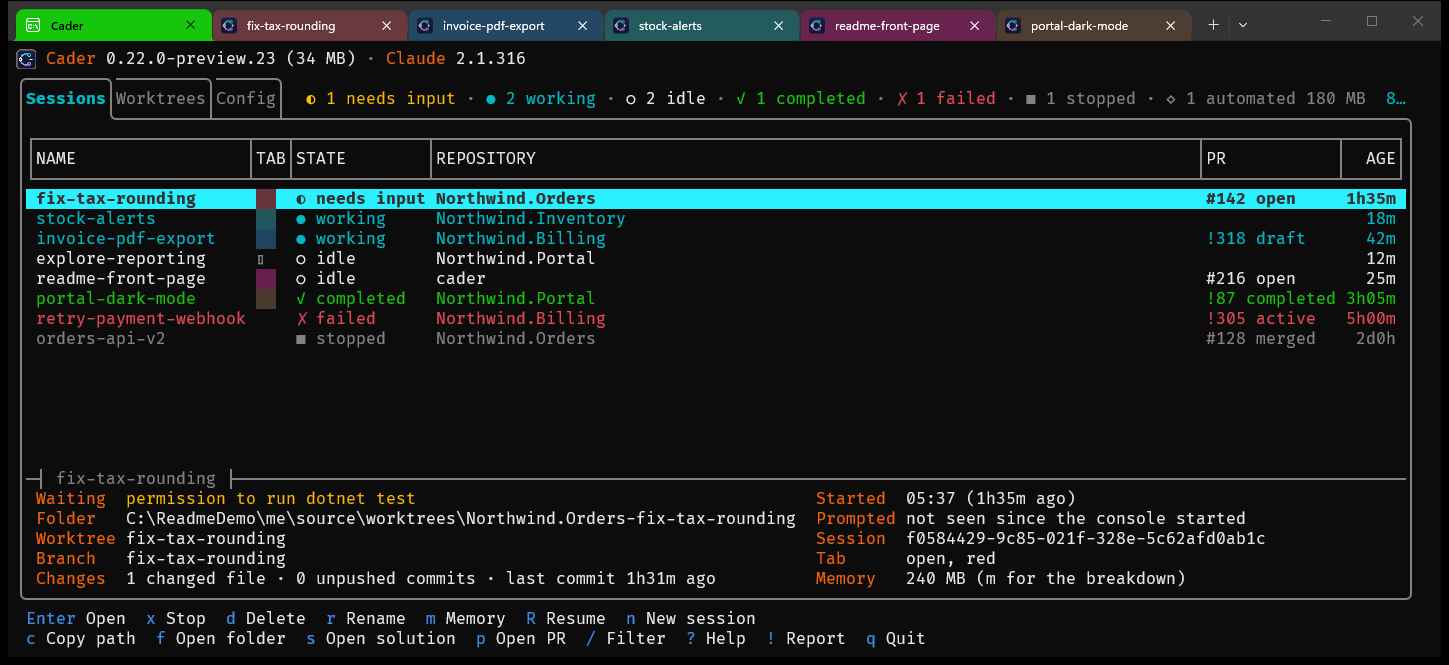
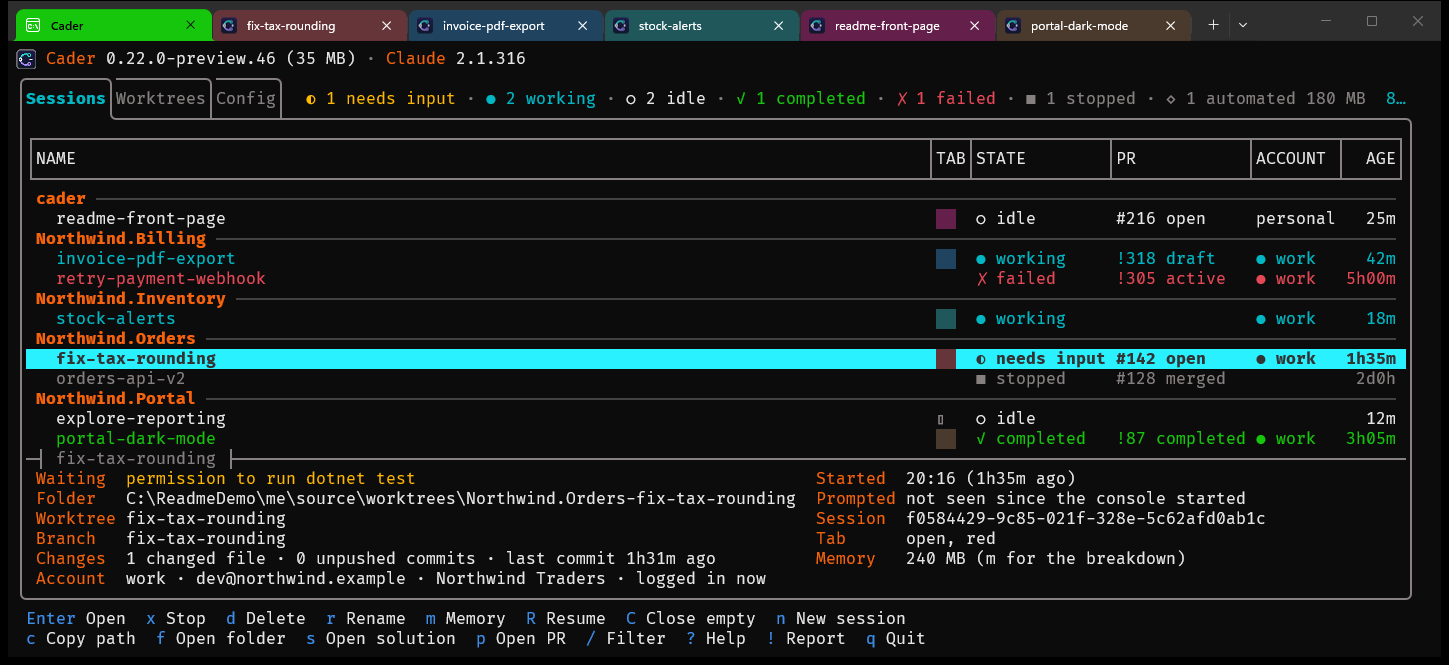
Remake the README images with grouped rows

Changed region(s): [[0.0, 0.2105, 0.9938, 0.9624], [0.2795, 0.2105, 0.3727, 0.2406]]

diff --git a/openspec/changes/group-rows-by-repository/tasks.md b/openspec/changes/group-rows-by-repository/tasks.md
@@ -28,13 +28,13 @@ Each task is one red, green, refactor cycle with a commit per step; the test nam
 - [x] 4.1 `SessionsScreenDefinitionShould.HaveNoRepositoryColumn` and `MakeNameTheElasticColumn`; drop REPOSITORY and make NAME `ColumnFit.Elastic()`; verify they pass and the one-elastic-column fact holds
 - [x] 4.2 `SessionsScreenDefinitionShould.NameAHeadingByRepositoryFolderOrFolderGone`; add `IScreenDefinition.Heading(TRow first)` and implement it on Sessions (moving today's REPOSITORY cell words into it); verify it passes
 - [x] 4.3 `WorktreesScreenDefinitionShould.NameAHeadingByRepository` and `ShowNoRepositoryInTheWorktreeCell` (folder slug, inner path, label, or a branch or origin row's branch); verify they pass
-- [ ] 4.4 Make `TableSource`, `ColumnSizing` (`Source`, `WidestCell`, `CellColour`, `RowColour`), `TableToolTips` and `TableBody.Redraw` work over `TableLine<TRow>`: a heading bold orange with its text elided in the middle in the first column and a faint rule in the rest, never widening a column and showing no tooltip; a row's first cell indented by two; the cursor on the selected row's line; verify `ColumnFitsShould`, `PaletteShould` and the Tui facts pass, and add facts for any rule the change makes testable there
+- [x] 4.4 Make `TableSource`, `ColumnSizing` (`Source`, `WidestCell`, `CellColour`, `RowColour`), `TableToolTips` and `TableBody.Redraw` work over `TableLine<TRow>`: a heading bold orange with its text elided in the middle in the first column and a faint rule in the rest, never widening a column and showing no tooltip; a row's first cell indented by two; the cursor on the selected row's line; verify `ColumnFitsShould`, `PaletteShould` and the Tui facts pass, and add facts for any rule the change makes testable there
 - [x] 4.5 Update `tools\ReadmeScene`'s `SceneHost` for any changed constructor; verify `dotnet build -c Debug` passes with warnings as errors
 
 ## 5. Documents and release
 
 - [ ] 5.1 Describe the grouping in `docs\user-guide.md` (Sessions and Worktrees sections: headings, group order, attention within a group, the counts) and the README where it describes the tables; verify by reading them against the delta specs
-- [ ] 5.2 Remake `assets\readme\sessions.png` and `new-session.gif` with `tools\New-ReadmeScreenshot.ps1`; verify by eye that headings read as one line, nothing widens, and a 120-column terminal fits every column
+- [x] 5.2 Remake `assets\readme\sessions.png` and `new-session.gif` with `tools\New-ReadmeScreenshot.ps1`; verify by eye that headings read as one line, nothing widens, and a 120-column terminal fits every column
 - [ ] 5.3 Raise `Version` in `src\Source191.Cader\Source191.Cader.csproj` (minor: the Sessions order changes) and add the changelog entry; verify `Assert-VersionBumped.ps1` passes
 
 ## 6. Integration checks
